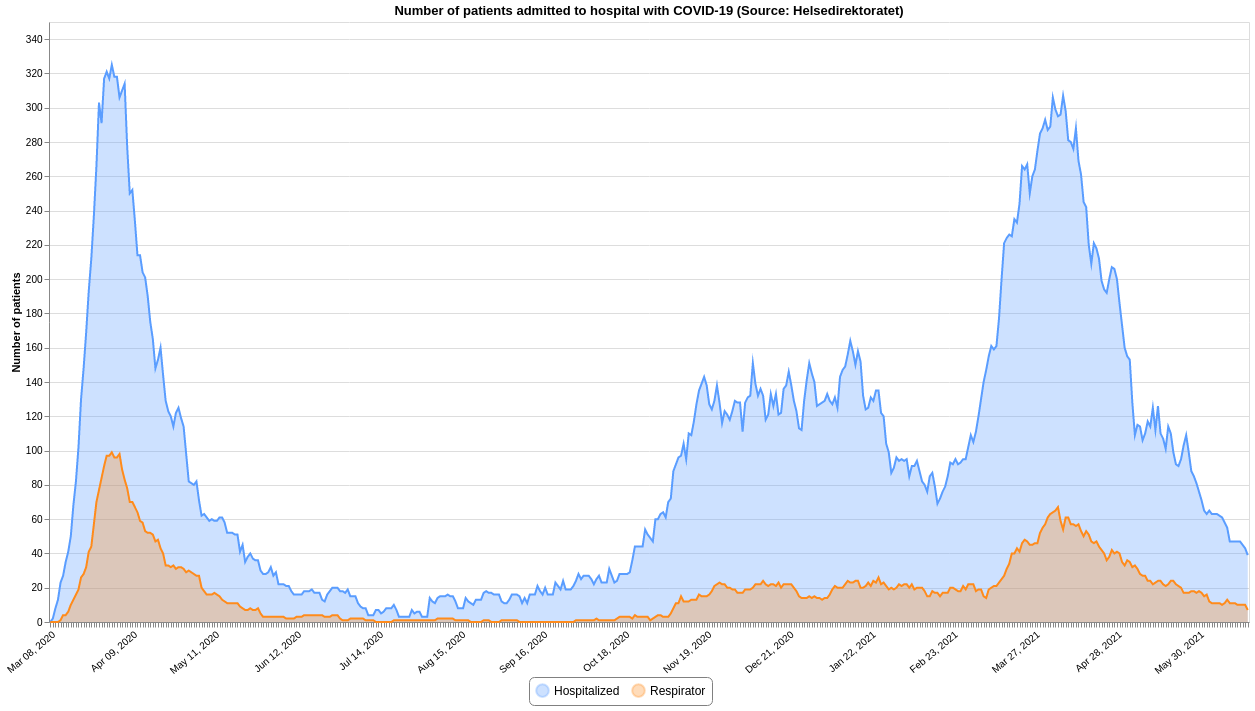
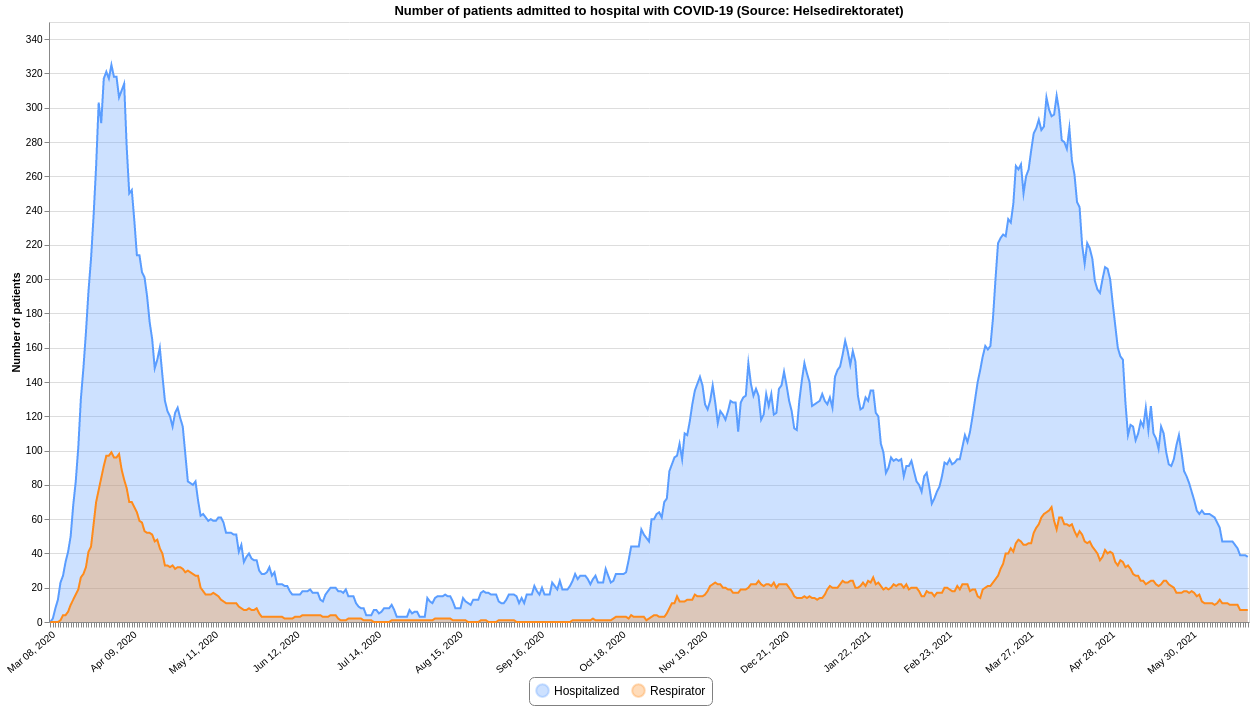
Updated 2021-06-21 12:51

diff --git a/README.md b/README.md
@@ -12,7 +12,7 @@ This repository contains datasets of daily time-series data related to COVID-19 
 | :--- | :--- | :--- | :--- | :--- |
 |[Confirmed](#confirmedcsv)|FHI / MSIS|2021-06-21 00:10:47+02:00|[<center>csv</center>](https://raw.githubusercontent.com/frefrik/c19norge-data/main/data/confirmed.csv)|[<center>preview</center>](data/confirmed.csv)|
 |[Dead](#deadcsv)|FHI|2021-06-18 13:20:44+02:00|[<center>csv</center>](https://raw.githubusercontent.com/frefrik/c19norge-data/main/data/dead.csv)|[<center>preview</center>](data/dead.csv)|
-|[Hospitalized](#hospitalizedcsv)|Helsedirektoratet|2021-06-18 16:40:43+02:00|[<center>csv</center>](https://raw.githubusercontent.com/frefrik/c19norge-data/main/data/hospitalized.csv)|[<center>preview</center>](data/hospitalized.csv)|
+|[Hospitalized](#hospitalizedcsv)|Helsedirektoratet|2021-06-21 12:50:52+02:00|[<center>csv</center>](https://raw.githubusercontent.com/frefrik/c19norge-data/main/data/hospitalized.csv)|[<center>preview</center>](data/hospitalized.csv)|
 |[Tested](#testedcsv)|FHI|2021-06-18 13:00:45+02:00|[<center>csv</center>](https://raw.githubusercontent.com/frefrik/c19norge-data/main/data/tested.csv)|[<center>preview</center>](data/tested.csv)|
 |[Tested Lab](#tested_labcsv)|FHI|2021-06-18 13:20:41+02:00|[<center>csv</center>](https://raw.githubusercontent.com/frefrik/c19norge-data/main/data/tested_lab.csv)|[<center>preview</center>](data/tested_lab.csv)|
 |[Transport](#transportcsv)|FHI|2021-06-21 12:20:52+02:00|[<center>csv</center>](https://raw.githubusercontent.com/frefrik/c19norge-data/main/data/transport.csv)|[<center>preview</center>](data/transport.csv)|
